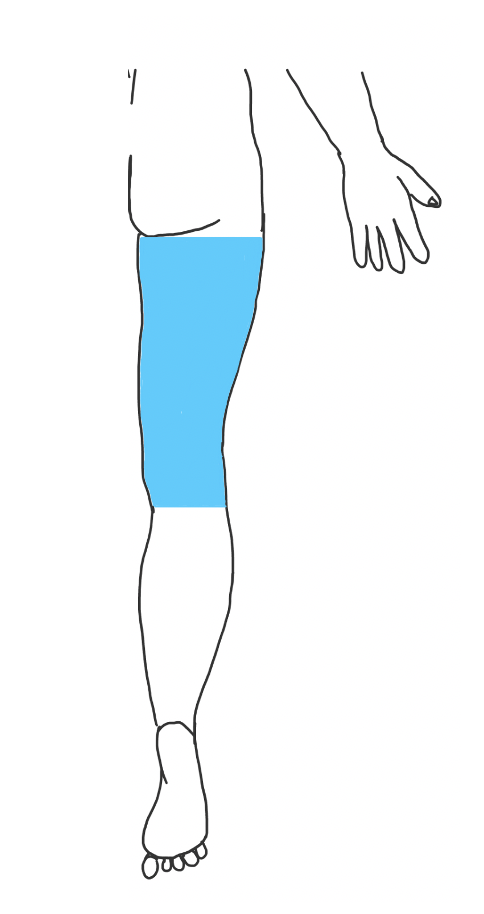
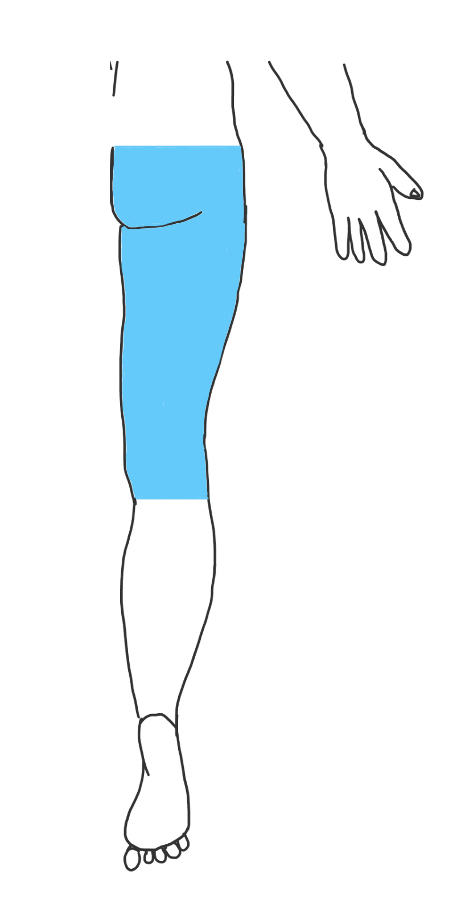
updated homunc photos again

diff --git a/src/screens/BackHomuncScreen.js b/src/screens/BackHomuncScreen.js
@@ -29,7 +29,7 @@ const BackHomuncScreen = ({navigation}) => {
                 <TouchableOpacity onPress={() => clickHandler("Left Upper Arm", "This is the area highlighted in blue")}>
                     <Image style={styles.arm} source={require('../../assets/Back/LeftUA.png')} />
                 </TouchableOpacity>
-                <TouchableOpacity onPress={() => clickHandler("Torso")}>
+                <TouchableOpacity onPress={() => clickHandler("Back")}>
                     <Image style={styles.chest} source={require('../../assets/Back/BackTorso2.png')} />
                 </TouchableOpacity>
                 <TouchableOpacity onPress={() => clickHandler("Right Upper Arm", "This is the area highlighted in blue")}>
@@ -40,7 +40,7 @@ const BackHomuncScreen = ({navigation}) => {
                 <TouchableOpacity onPress={() => clickHandler("Left Lower Arm", "This is the area highlighted in blue")}>
                     <Image style={styles.lowerArm} source={require('../../assets/Back/LeftLA.png')} />
                 </TouchableOpacity>
-                <TouchableOpacity onPress={() => clickHandler("Torso")}>
+                <TouchableOpacity onPress={() => clickHandler("Back")}>
                     <Image style={styles.body} source={require('../../assets/Back/LowerTorso2.png')} />
                 </TouchableOpacity>
                 <TouchableOpacity onPress={() => clickHandler("Right Lower Arm", "This is the area highlighted in blue")}>

diff --git a/src/screens/BackBodyPartScreen.js b/src/screens/BackBodyPartScreen.js
@@ -5,8 +5,8 @@ const checkBackSwitch = (bodyPart) => {
     switch(bodyPart) {
         case 'Head or Neck':
             return (<Image style={styles.closeUp} source={require('../../assets/Back/CloseHead.png')}/>)
-        case 'Torso':
-            return (<Image style={styles.closeUp} source={require('../../assets/Back/CloseTorso.png')}/>)
+        case 'Back':
+            return (<Image style={styles.closeUp} source={require('../../assets/Back/CloseTorso2.png')}/>)
         case 'Left Upper Arm':
             return (<Image style={styles.closeUp} source={require('../../assets/Back/CloseLUA.png')}/>)
         case 'Right Upper Arm':
